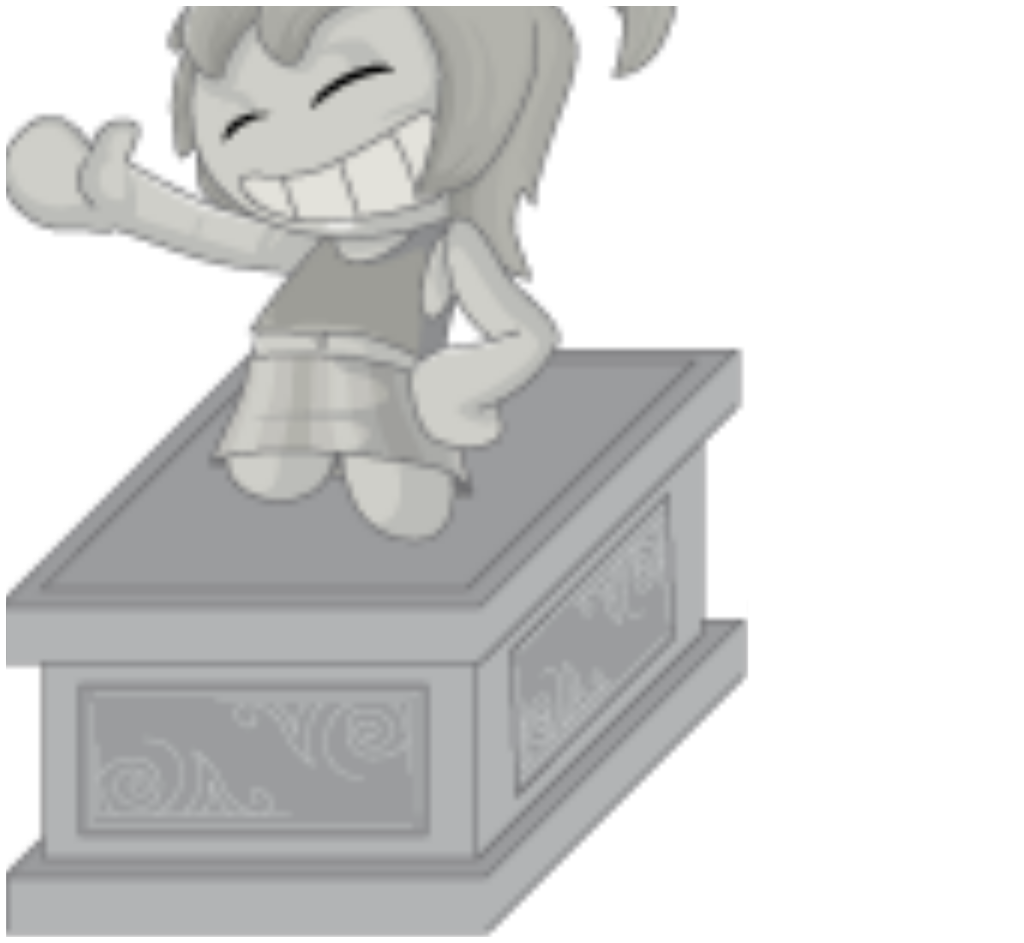
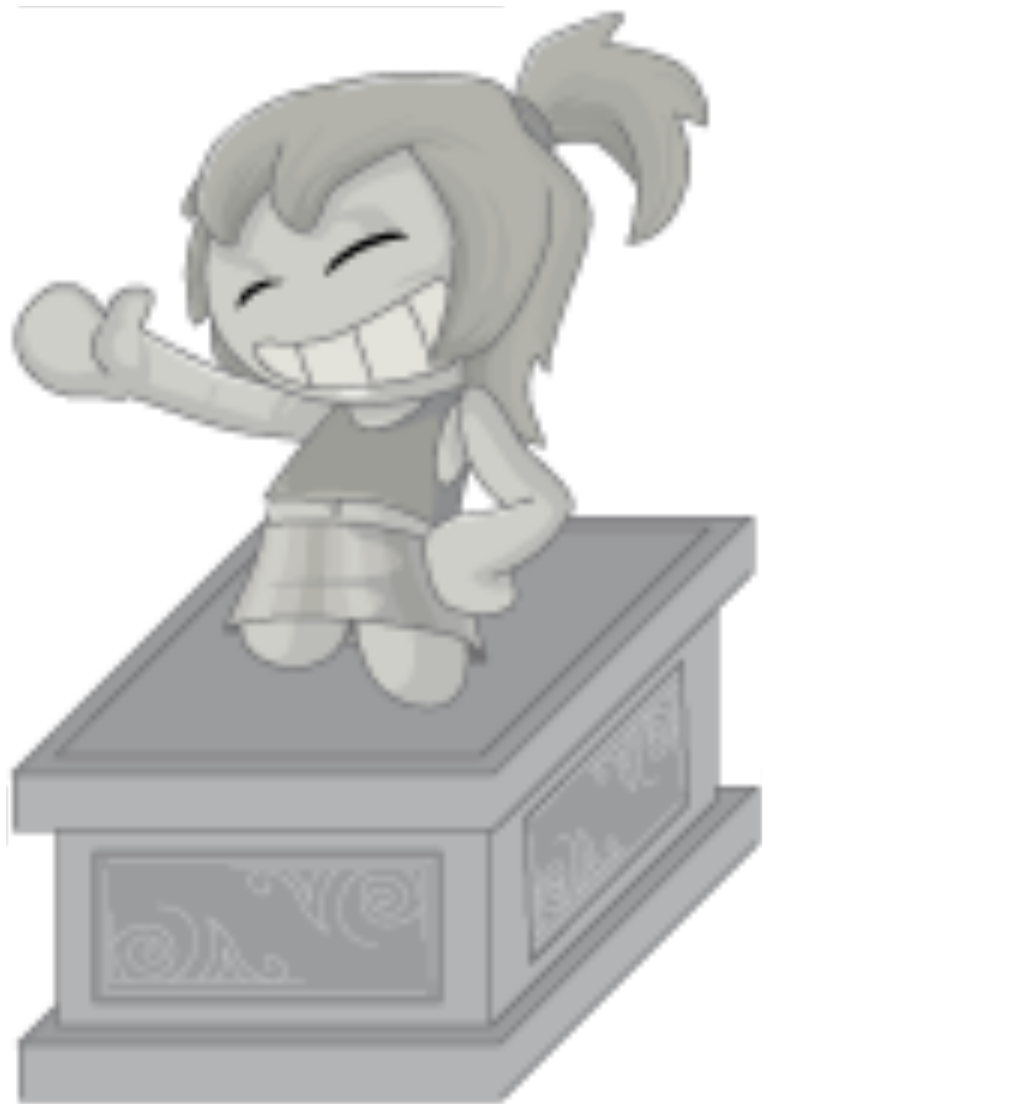
fix: PAD=1000 still silently clipped several furniture items
Claude-Session: https://claude.ai/code/session_017wYdd4gcarQoyzxM8Buv9X

Changed region(s): [[0.0, 0.0, 0.75, 1.0], [0.5625, 0.5536, 0.5938, 0.5843]]

diff --git a/game-assets/tools/swf_to_furniture.py b/game-assets/tools/swf_to_furniture.py
@@ -57,7 +57,11 @@ import cairosvg
 FFDEC = "/mnt/c/Program Files (x86)/FFDec/ffdec.jar"
 RESOLUTION = 3
 ZOOM = RESOLUTION * 2  # matches swf_to_spritesheet.py's convention; see module doc for the zoom-2-is-current-1x proof
-PAD = 1000  # px, pre-zoom canvas padding -- generous enough for any furniture item's own extent
+PAD = 3000  # px, pre-zoom canvas padding. 1000 silently clipped several items (a statue's
+            # local origin isn't centered on its own art -- confirmed content bbox touching
+            # x=0 exactly on haie/rondcentre/statut1-4/statut_, i.e. real content lost, not
+            # just a tight-but-correct crop). Verified 3000 clears every jardin item with
+            # margin to spare; bump further if a future category needs more.
 
 
 def run_ffdec(*args, timeout=60):
